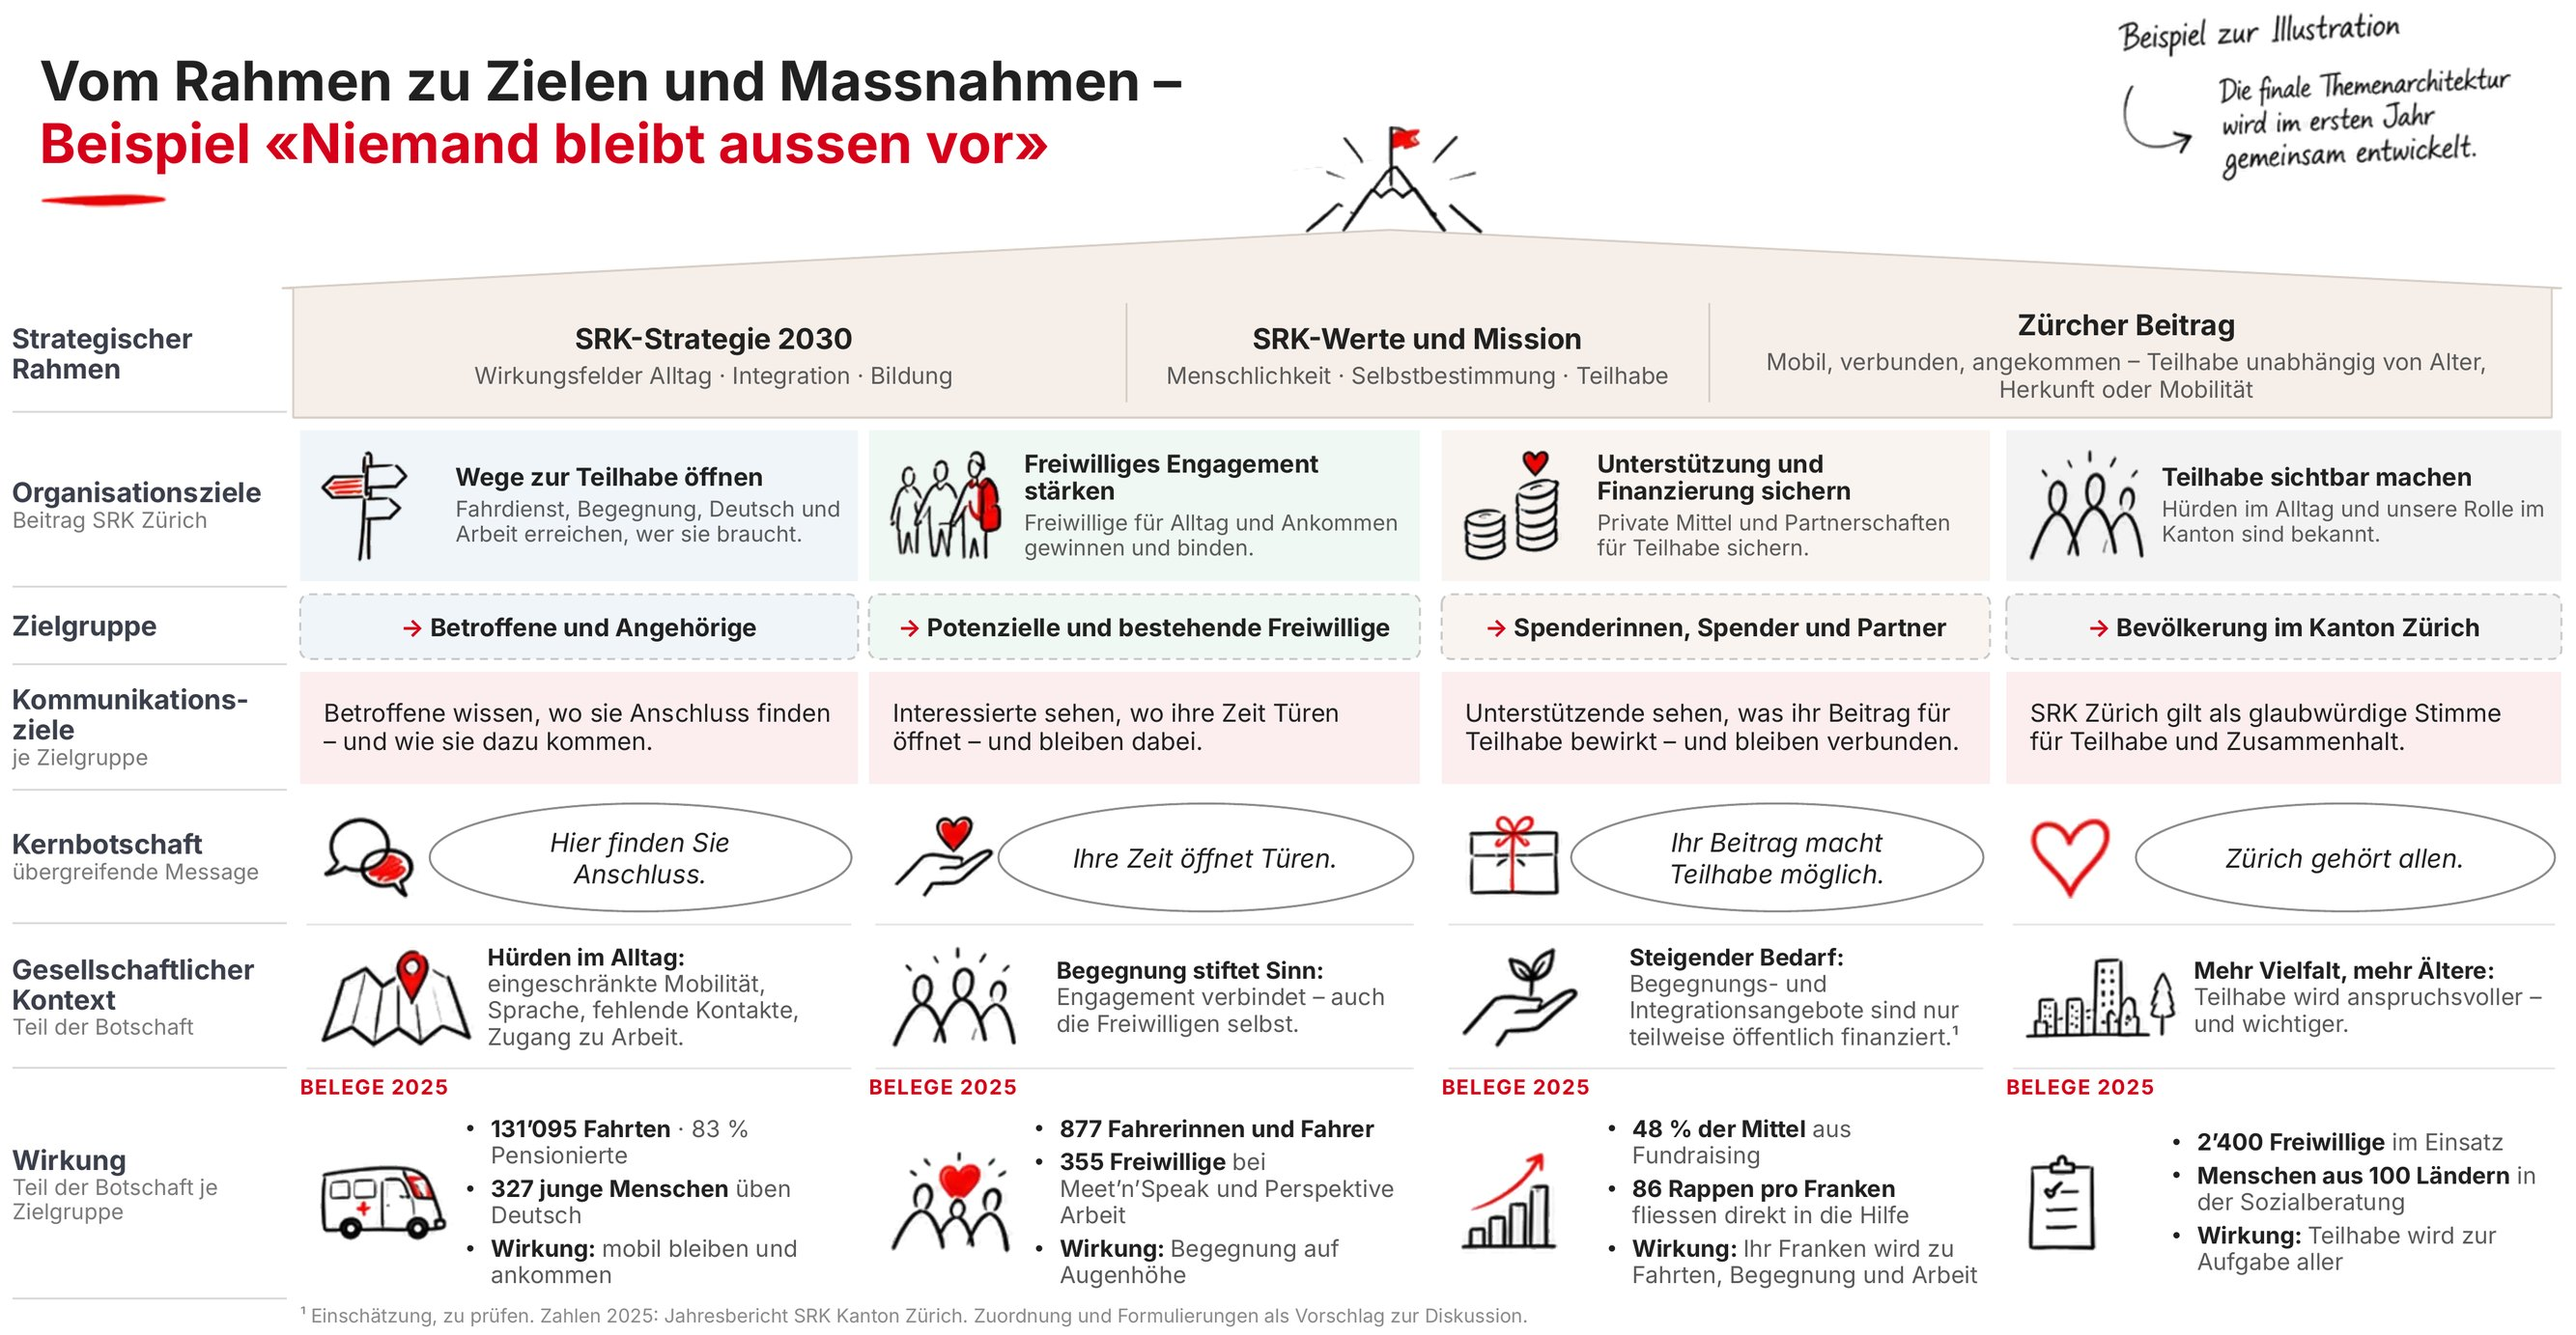
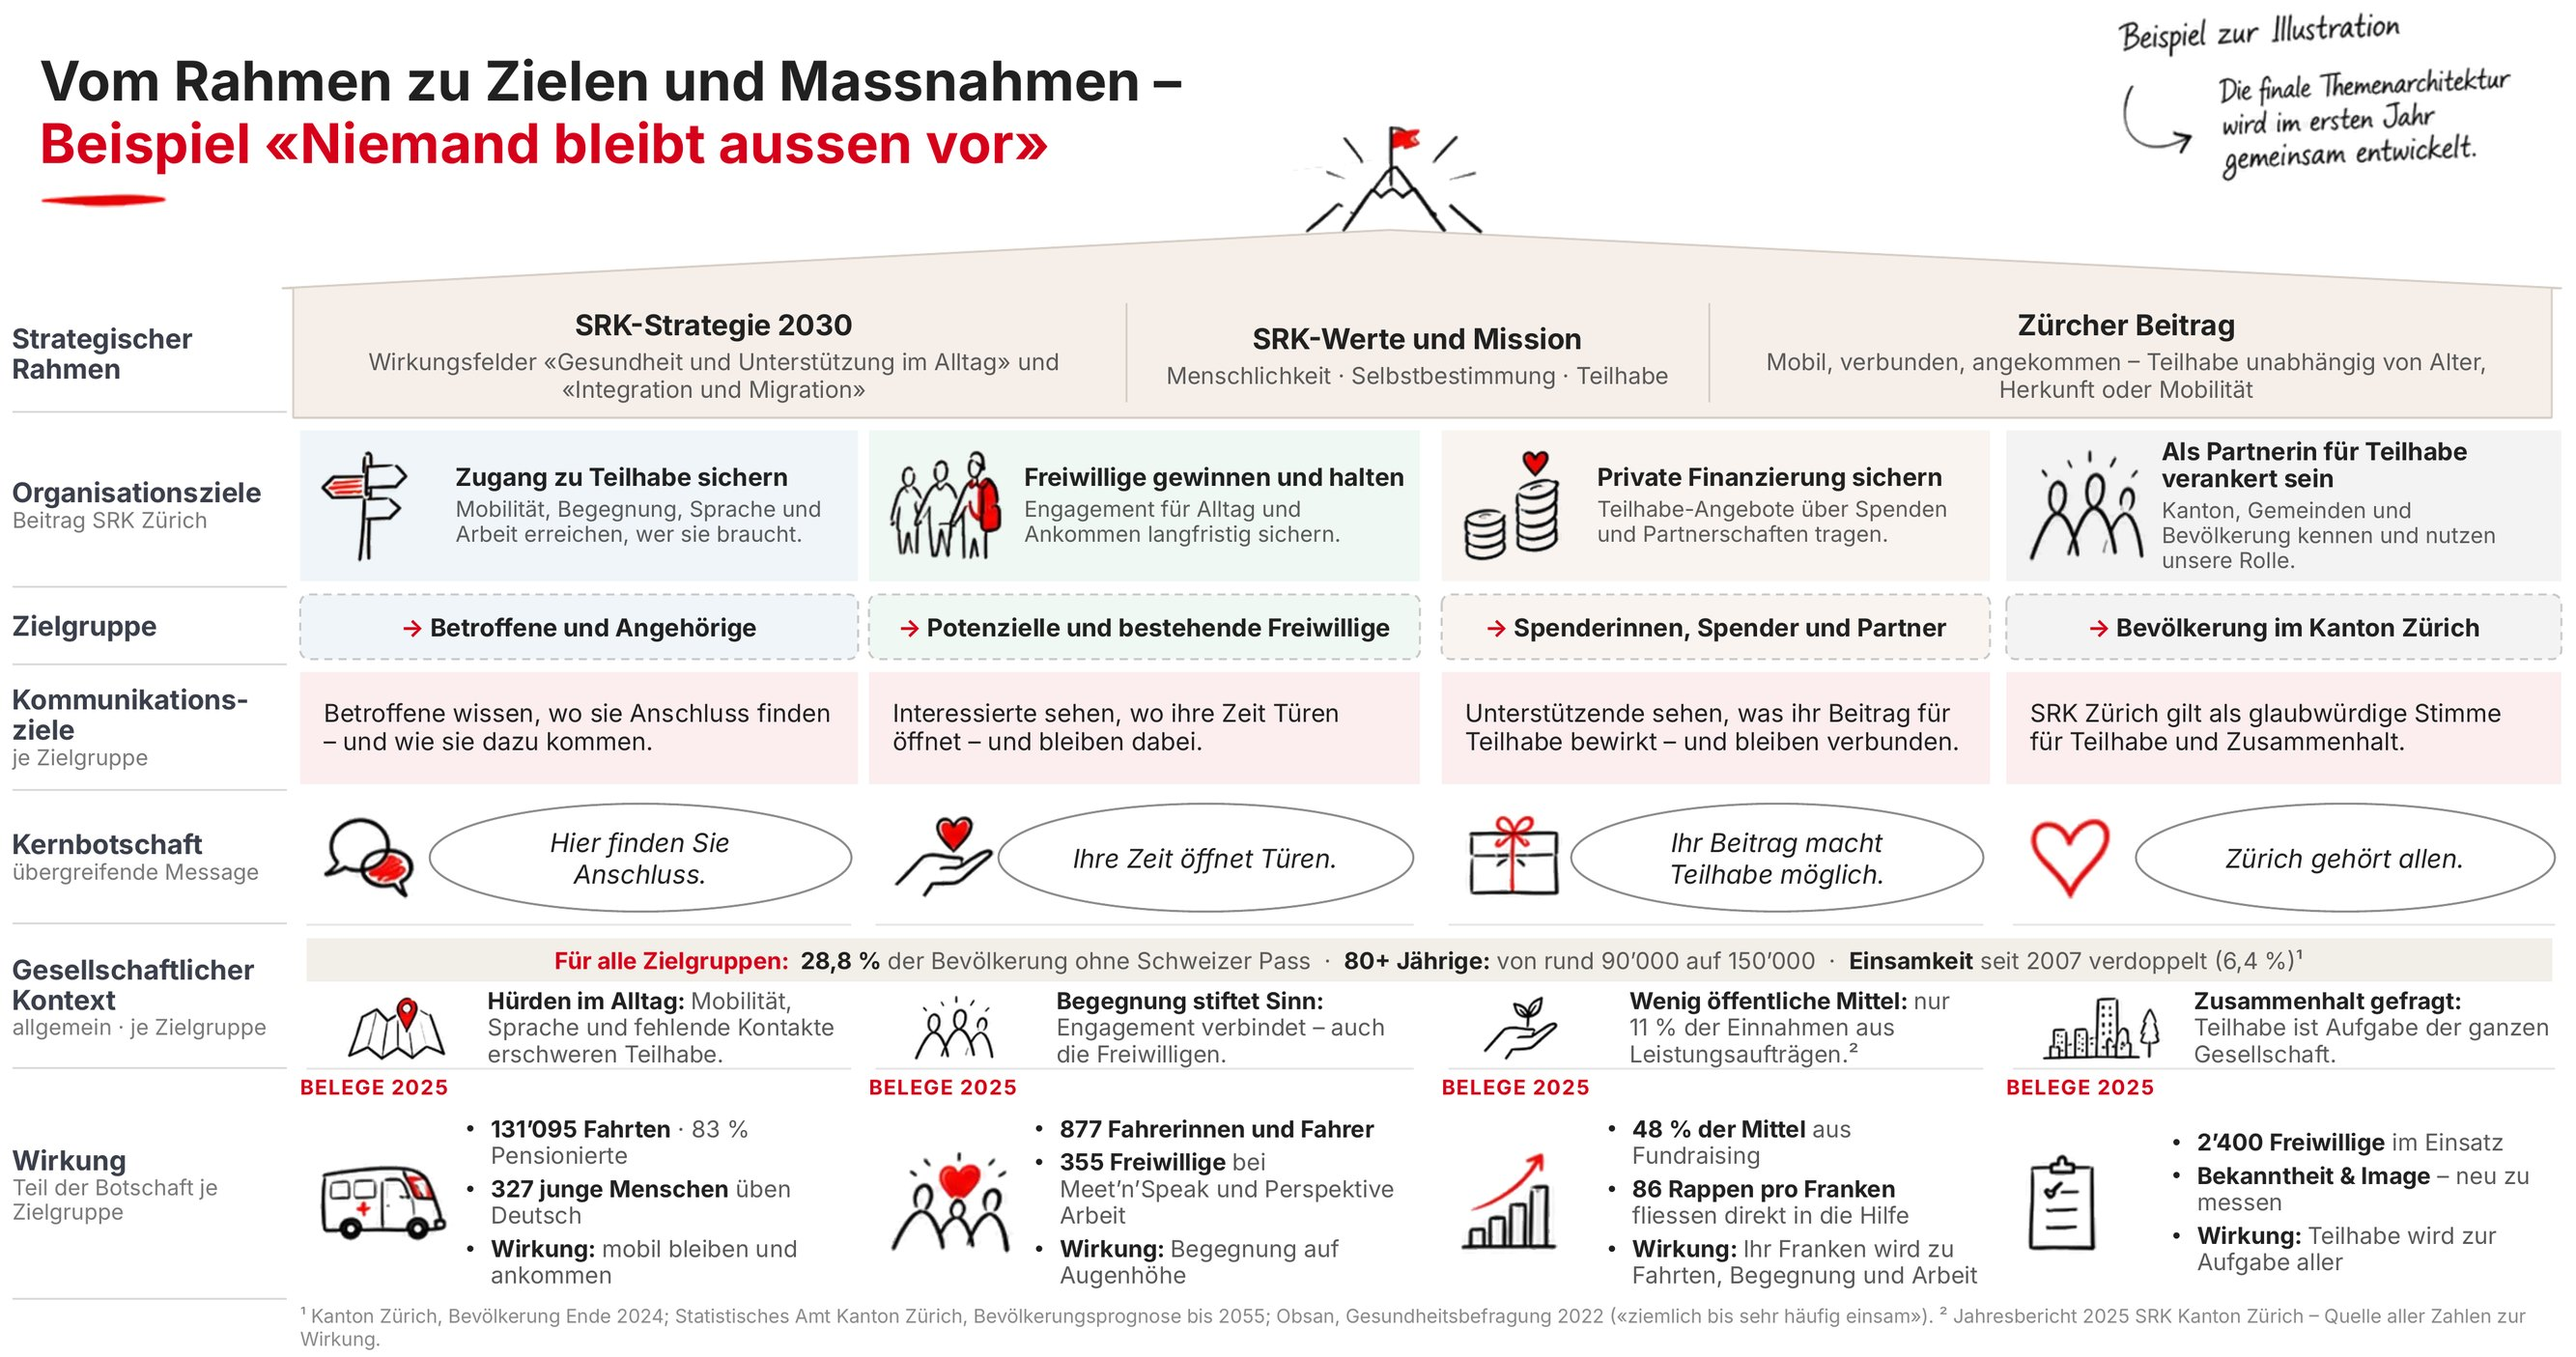
Zielhäuser: Organisationsziele geschärft, Kontext allgemein und je Zielgruppe
Claude-Session: https://claude.ai/code/session_01Der2J39CQXvMiax1v9zNGx

diff --git a/index.html b/index.html
@@ -263,7 +263,7 @@ footer a{color:inherit}
     </div>
     <figure class="zh-fig">
       <span class="zh-badge">Beispiel</span>
-      <a href="zielhaus2.jpg" target="_blank" rel="noopener"><img src="zielhaus2.jpg" alt="Zielhaus «Niemand bleibt aussen vor»: Strategischer Rahmen, vier Organisationsziele mit Zielgruppen, Kommunikationszielen, Kernbotschaften, gesellschaftlichem Kontext und Wirkung" width="2667" height="1383" loading="lazy"></a>
+      <a href="zielhaus2.jpg" target="_blank" rel="noopener"><img src="zielhaus2.jpg" alt="Zielhaus «Niemand bleibt aussen vor»: Strategischer Rahmen, vier Organisationsziele mit Zielgruppen, Kommunikationszielen, Kernbotschaften, gesellschaftlichem Kontext und Wirkung" width="2667" height="1405" loading="lazy"></a>
       <figcaption>Zum Vergrössern auf das Bild tippen. Methodisch angelehnt an das Zielhaus der Kommunikation (Storck, in Zerfass/Volk).</figcaption>
     </figure>
   </div>
@@ -276,7 +276,7 @@ footer a{color:inherit}
     </div>
     <figure class="zh-fig">
       <span class="zh-badge">Beispiel</span>
-      <a href="zielhaus.jpg" target="_blank" rel="noopener"><img src="zielhaus.jpg" alt="Zielhaus «Selbstbestimmt älter werden»: Strategischer Rahmen, vier Organisationsziele mit Zielgruppen, Kommunikationszielen, Kernbotschaften, gesellschaftlichem Kontext und Wirkung" width="2667" height="1383" loading="lazy"></a>
+      <a href="zielhaus.jpg" target="_blank" rel="noopener"><img src="zielhaus.jpg" alt="Zielhaus «Selbstbestimmt älter werden»: Strategischer Rahmen, vier Organisationsziele mit Zielgruppen, Kommunikationszielen, Kernbotschaften, gesellschaftlichem Kontext und Wirkung" width="2667" height="1405" loading="lazy"></a>
       <figcaption>Zum Vergrössern auf das Bild tippen. Methodisch angelehnt an das Zielhaus der Kommunikation (Storck, in Zerfass/Volk).</figcaption>
     </figure>
   </div>
